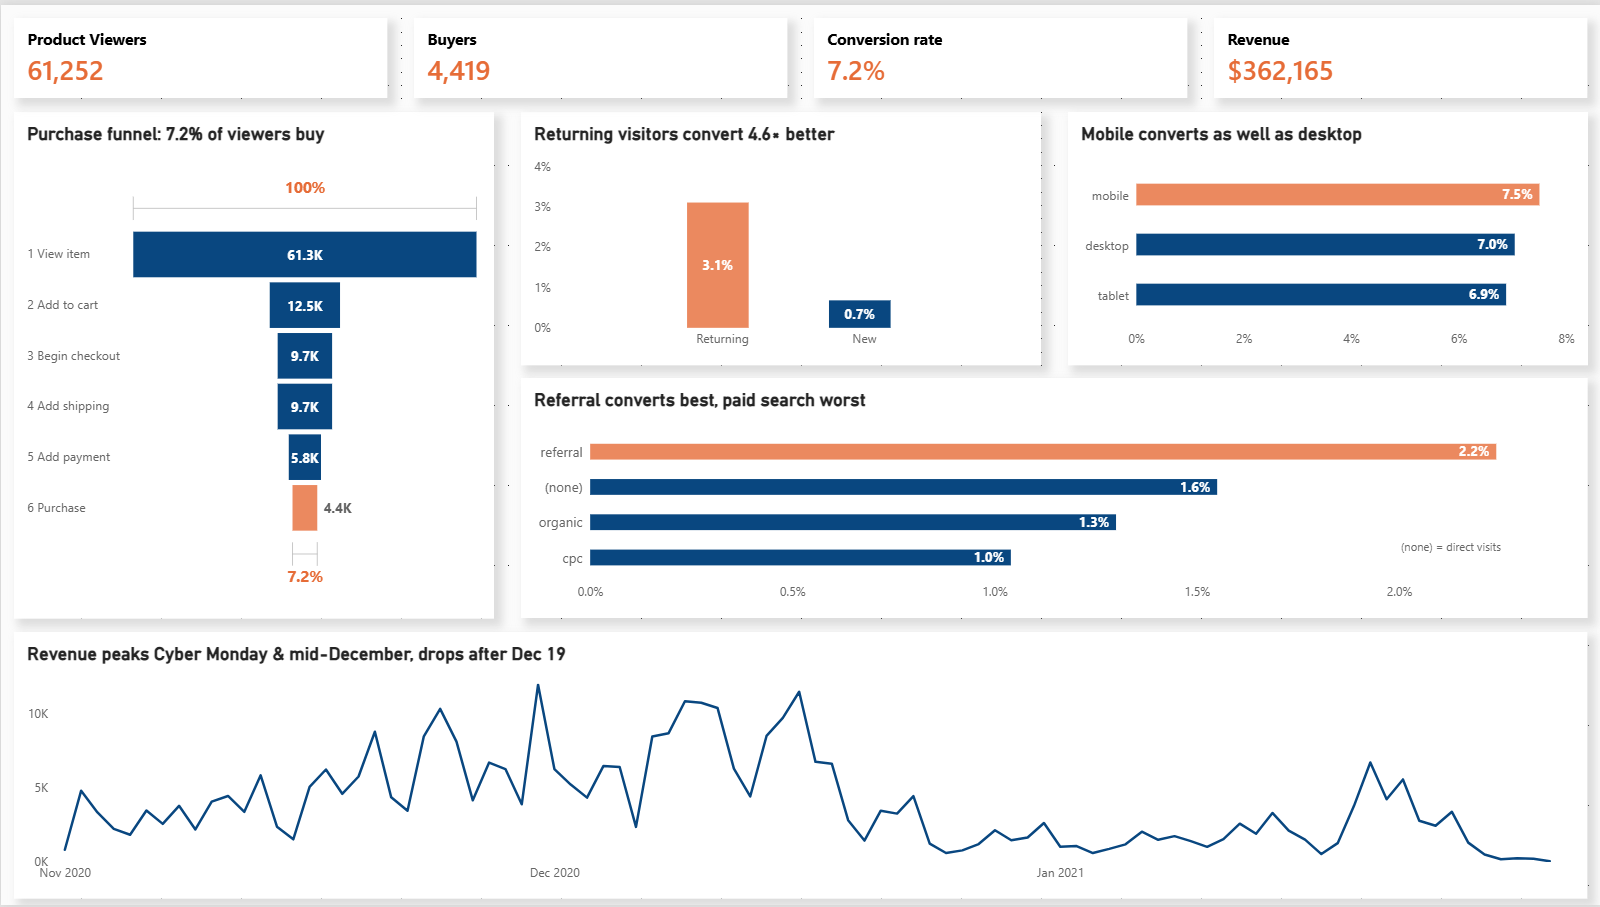
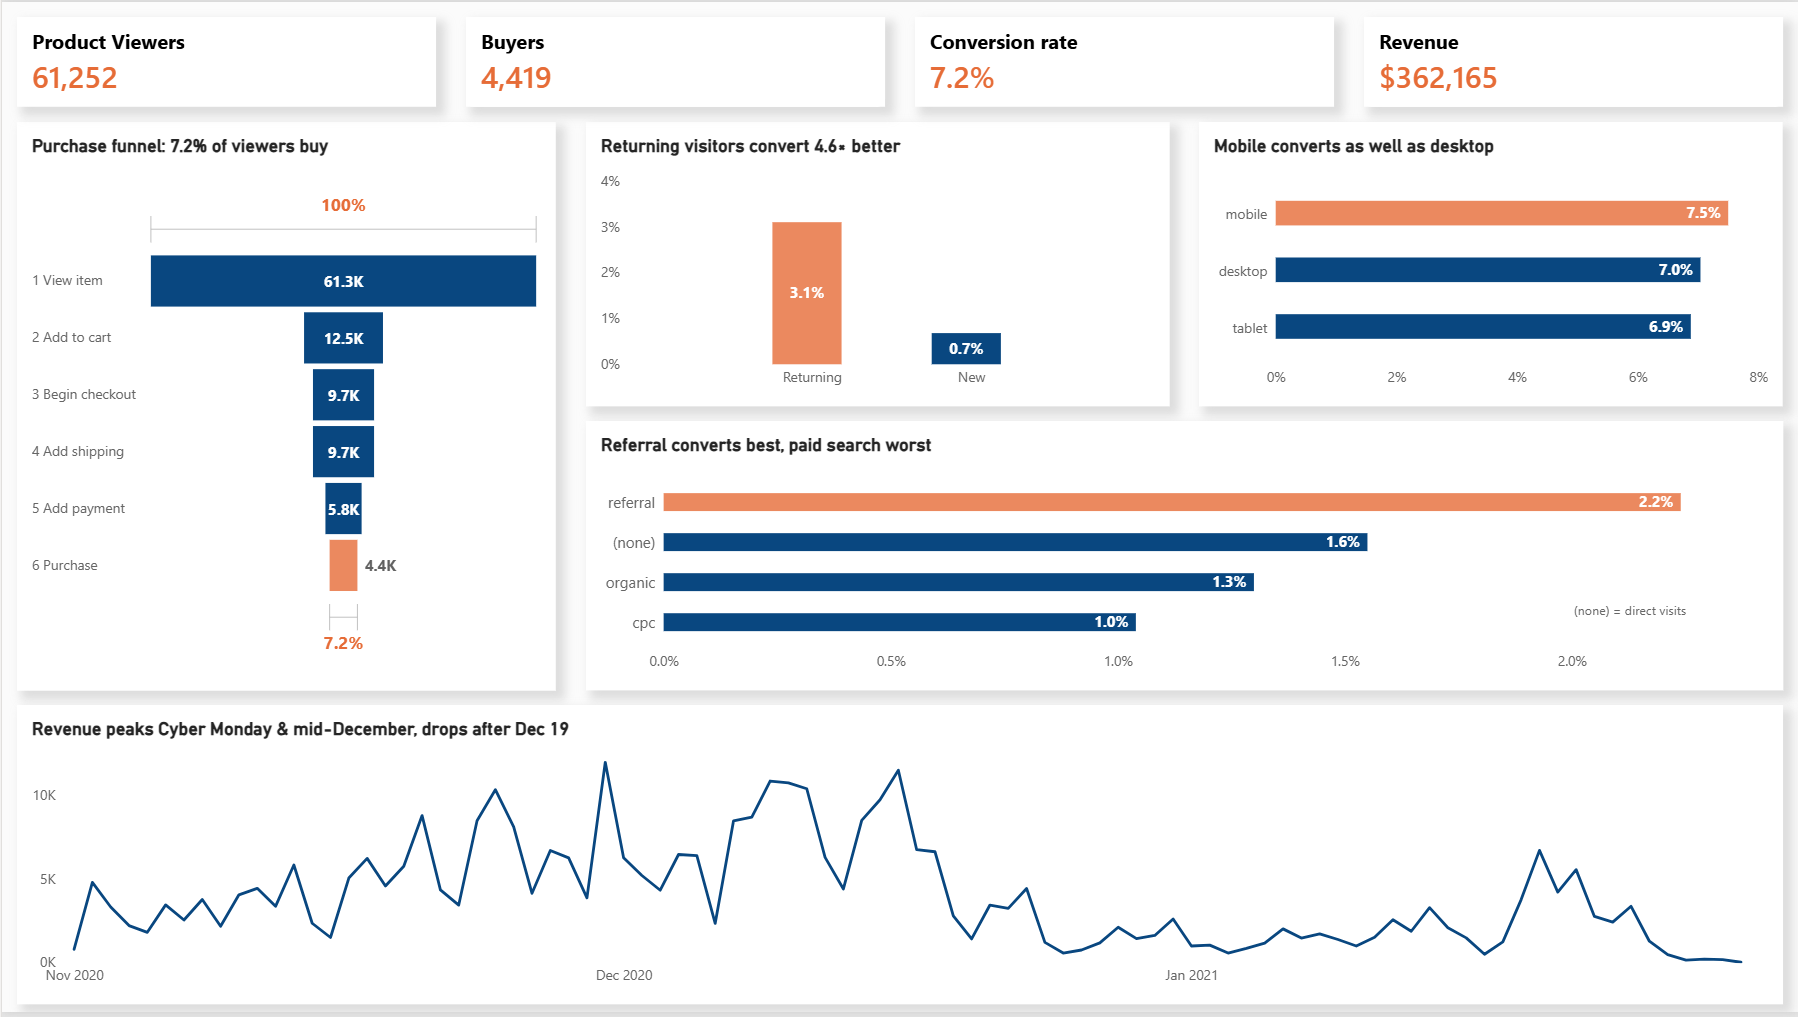
Add dashboard page 2 (ad efficiency) and refresh page 1
Claude-Session: https://claude.ai/code/session_016vZkohUvY9QW4GPB4deyKU

diff --git a/ecommerce-funnel-analysis/README.md b/ecommerce-funnel-analysis/README.md
@@ -1,6 +1,6 @@
 # E-commerce Funnel & Ad Efficiency Analysis
 
-**Status:** analysis done; dashboard page 1 done, page 2 (ad efficiency) and report in progress
+**Status:** analysis done; Power BI dashboard done (2 pages); written report in progress
 
 A personal portfolio project. It looks at where an online store loses its customers, and at which ad campaigns and audiences give the best return. Only public datasets are used, and any assumption is labelled.
 
@@ -8,6 +8,10 @@ A personal portfolio project. It looks at where an online store loses its custom
 **Page 1: Online store performance** (Power BI)
 
 ![Store performance dashboard](dashboard/page1_store_performance.png)
+
+**Page 2: Ad efficiency** (Power BI)
+
+![Ad efficiency dashboard](dashboard/page2_ad_efficiency.png)
 
 ## Questions
 1. Where in the purchase funnel do shoppers drop off?

diff --git a/README.md b/README.md
@@ -4,7 +4,7 @@ Personal portfolio projects in SQL, Python, Power BI and AI-assisted automation.
 
 | Project | Skills | Status |
 |---|---|---|
-| [E-commerce Funnel & Ad Efficiency Analysis](ecommerce-funnel-analysis) | SQL (BigQuery, GA4), Python (pandas), Power BI | Analysis done, dashboard in progress |
+| [E-commerce Funnel & Ad Efficiency Analysis](ecommerce-funnel-analysis) | SQL (BigQuery, GA4), Python (pandas), Power BI | Dashboard done, report in progress |
 | [Canadian Grocery Price Tracker](grocery-price-tracker) | Automated data collection, data quality, benchmarking vs Statistics Canada | Collecting data (Oct–Nov 2026) |
 | [AIGC Content Pipeline + Ad-Claims Checker](aigc-content-pipeline) | LLM prompting, compliance logic, AIGC video | Coming soon |
 
